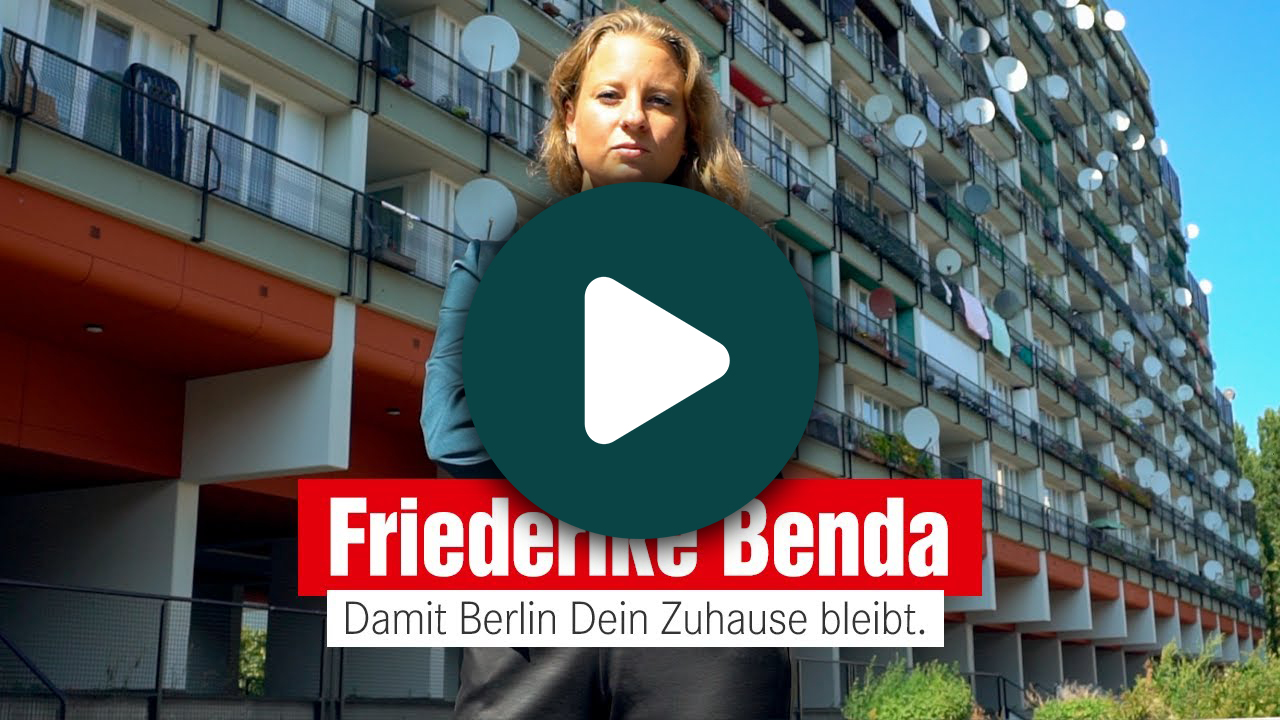
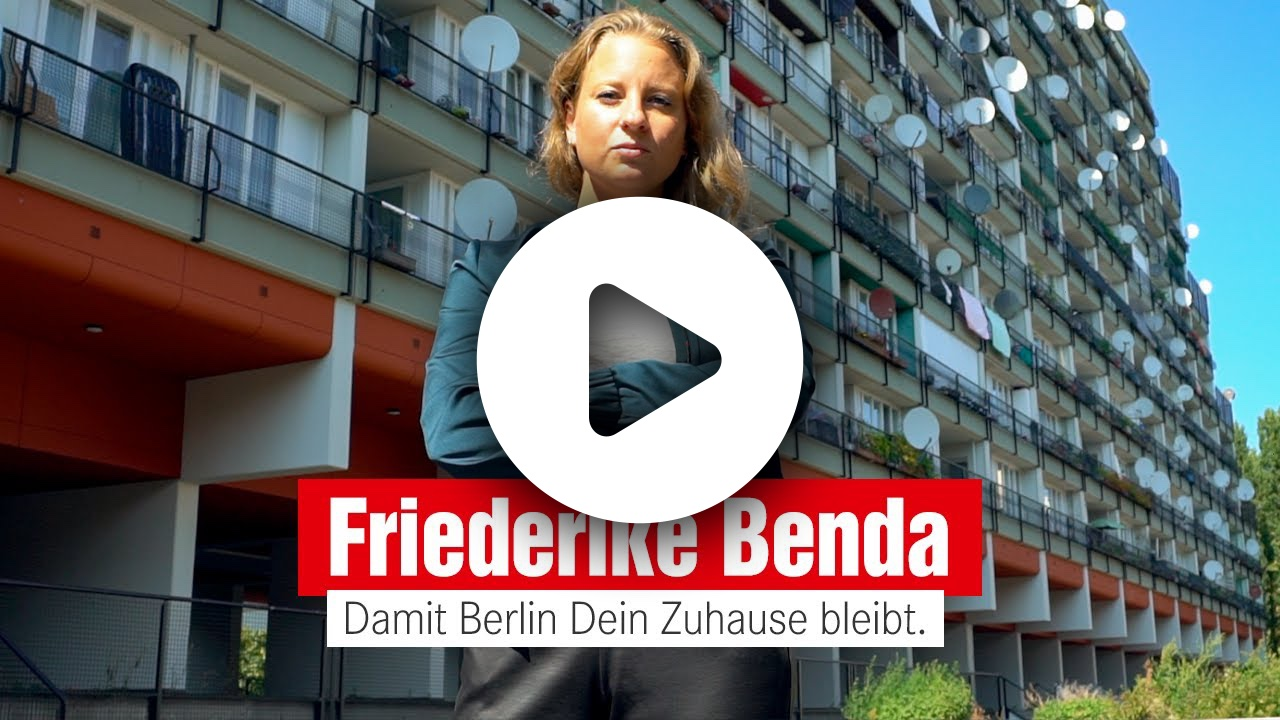
added new handling for privacy-friendly youtube integration and new video in newly created kampagnen section

Changed region(s): [[0.3438, 0.2444, 0.6562, 0.7639], [0.4688, 0.7944, 0.5312, 0.825], [0.4062, 0.7639, 0.4375, 0.7944]]

diff --git a/assets/js/main.min.js b/assets/js/main.min.js
@@ -1,2 +1,2 @@
- //v1.5
- !function($){var b=$(window),a=$("body");breakpoints({default:["1681px",null],xlarge:["1281px","1680px"],large:["981px","1280px"],medium:["737px","980px"],small:["481px","736px"],xsmall:["361px","480px"],xxsmall:[null,"360px"]}),b.on("load",function(){window.setTimeout(function(){a.removeClass("is-preload")},100)}),"ie"==browser.name&&a.addClass("is-ie"),browser.mobile&&a.addClass("is-mobile"),$(".scrolly").scrolly({offset:100}),browser.canUse("object-fit")||($(".image[data-position]").each(function(){var a=$(this),b=a.children("img");a.css("background-image",'url("'+b.attr("src")+'")').css("background-position",a.data("position")).css("background-size","cover").css("background-repeat","no-repeat"),b.css("opacity","0")}),$(".gallery > a").each(function(){var a=$(this),b=a.children("img");a.css("background-image",'url("'+b.attr("src")+'")').css("background-position","center").css("background-size","cover").css("background-repeat","no-repeat"),b.css("opacity","0")})),$(".lightbox").on("click","a",function(b){var c=$(this),a=c.parents(".lightbox").children(".modal"),e=a.find("img"),d=c.attr("href");d.match(/\.(jpg|gif|png|mp4)$/)&&(b.preventDefault(),b.stopPropagation(),a[0]._locked||(a[0]._locked=!0,e.attr("src",d),a.addClass("visible"),a.focus(),setTimeout(function(){a[0]._locked=!1},600)))}).on("click",".modal",function(c){var b=$(this),d=b.find("img");!b[0]._locked&&b.hasClass("visible")&&(c.stopPropagation(),b[0]._locked=!0,b.removeClass("loaded"),setTimeout(function(){b.removeClass("visible"),setTimeout(function(){d.attr("src",""),b[0]._locked=!1,a.focus()},475)},125))}).on("keypress",".modal",function(a){var b=$(this);27==a.keyCode&&b.trigger("click")}).on("mouseup mousedown mousemove",".modal",function(a){a.stopPropagation()}).prepend('<div class="modal" tabIndex="-1"><div class="inner"><img src="" /></div></div>').find("img").on("load",function(a){var b=$(this).parents(".modal");setTimeout(function(){b.hasClass("visible")&&b.addClass("loaded")},275)}),$(".gallery").on("click","a",function(b){var c=$(this),a=c.parents(".gallery").children(".modal"),e=a.find("img"),d=c.attr("href");d.match(/\.(jpg|jpeg|gif|png|mp4)$/)&&(b.preventDefault(),b.stopPropagation(),a[0]._locked||(a[0]._locked=!0,e.attr("src",d),a.addClass("visible"),a.focus(),setTimeout(function(){a[0]._locked=!1},600)))}).on("click",".modal",function(c){var b=$(this),d=b.find("img");!b[0]._locked&&b.hasClass("visible")&&(c.stopPropagation(),b[0]._locked=!0,b.removeClass("loaded"),setTimeout(function(){b.removeClass("visible"),setTimeout(function(){d.attr("src",""),b[0]._locked=!1,a.focus()},475)},125))}).on("keypress",".modal",function(a){var b=$(this);27==a.keyCode&&b.trigger("click")}).on("mouseup mousedown mousemove",".modal",function(a){a.stopPropagation()}).prepend('<div class="modal" tabIndex="-1"><div class="inner"><img src="" /></div></div>').find("img").on("load",function(a){var b=$(this).parents(".modal");setTimeout(function(){b.hasClass("visible")&&b.addClass("loaded")},275)})}(jQuery);const piwikServerUrl="https://piwik.jh0.eu/";var piwikAjaxOptOutIsTracked=!0;function piwikAjaxOptOutTrack(){$.ajax({url:piwikServerUrl+"index.php?module=API&method=AjaxOptOut.doTrack&format=json",jsonp:"callback",dataType:"jsonp",success:function(a){piwikAjaxOptOutIsTracked=!0,updateText()}})}function piwikAjaxOptOutUntrack(){$.ajax({url:piwikServerUrl+"index.php?module=API&method=AjaxOptOut.doIgnore&format=json",jsonp:"callback",dataType:"jsonp",success:function(a){piwikAjaxOptOutIsTracked=!1,updateText()}})}function updateText(){!0===piwikAjaxOptOutIsTracked?($("#matomoTrackingStatus span").hide(),$("#piwikAjaxOptOutUntrack").show(),$("#piwikAjaxOptOutTrack").hide()):($("#matomoTrackingStatus span").show(),$("#piwikAjaxOptOutTrack").show(),$("#piwikAjaxOptOutUntrack").hide())}$(document).ready(function(){$("#piwikAjaxOptOutTrack").click(function(a){a.preventDefault(),a.stopPropagation(),piwikAjaxOptOutTrack()}),$("#piwikAjaxOptOutUntrack").click(function(a){a.preventDefault(),a.stopPropagation(),piwikAjaxOptOutUntrack()}),$.ajax({url:piwikServerUrl+"index.php?module=API&method=AjaxOptOut.isTracked&format=json",jsonp:"callback",dataType:"jsonp",success:function(a){piwikAjaxOptOutIsTracked=a.value,updateText()}})});var playYTStatus=0;function playVideo(a,b){if(a="#"+a,0==playYTStatus)$(a).find("img").addClass("grayedout"),$(a).children(".confirm").show(),playYTStatus=1;else if(1==playYTStatus){var c='<iframe src="https://www.youtube-nocookie.com/embed/'+b+'" title="YouTube video player" allow="accelerometer; autoplay; clipboard-write; encrypted-media; gyroscope; picture-in-picture" allowfullscreen></iframe>';$(a).empty(),$(a).removeClass(),$(a).addClass("video"),$(a).append(c),playYTStatus=2}}function getAnchor(){var a=document.URL.split("#");return a.length>1?a[1]:null}function getGetVar(){var a=document.URL.split("?");return a.length>1?a[1]:null}function scrollToAnchor(a){var b=$("section[id='"+a+"']");$("html,body").animate({scrollTop:b.offset().top},"slow")}("photographie"==getAnchor()||"photographie"==getGetVar())&&($(".photogalerie").slideToggle("slow",function(a){$(".photogalerie").is(":hidden")?$("#photogalerie-toggle").addClass("primary"):$("#photogalerie-toggle").removeClass("primary")}),null!=getGetVar()&&scrollToAnchor("photographie")),("work"==getAnchor()||"work"==getGetVar())&&($("#referenzen").slideToggle("slow",function(a){$("#referenzen").is(":hidden")?$("#referenzen-toggle").addClass("primary"):$("#referenzen-toggle").removeClass("primary")}),null!=getGetVar()&&scrollToAnchor("referenzen"));const h=new Date().getHours();var begruessung="";switch(!0){case h<6:begruessung="N'Abend.";break;case h<23:begruessung="Moin.";break;default:begruessung="N'Abend."}$("#begruessung").html(begruessung)
+ //v1.6
+ !function(e){var a=e(window),t=e("body");breakpoints({default:["1681px",null],xlarge:["1281px","1680px"],large:["981px","1280px"],medium:["737px","980px"],small:["481px","736px"],xsmall:["361px","480px"],xxsmall:[null,"360px"]}),a.on("load",function(){window.setTimeout(function(){t.removeClass("is-preload")},100)}),"ie"==browser.name&&t.addClass("is-ie"),browser.mobile&&t.addClass("is-mobile"),e(".scrolly").scrolly({offset:100}),browser.canUse("object-fit")||(e(".image[data-position]").each(function(){var a=e(this),t=a.children("img");a.css("background-image",'url("'+t.attr("src")+'")').css("background-position",a.data("position")).css("background-size","cover").css("background-repeat","no-repeat"),t.css("opacity","0")}),e(".gallery > a").each(function(){var a=e(this),t=a.children("img");a.css("background-image",'url("'+t.attr("src")+'")').css("background-position","center").css("background-size","cover").css("background-repeat","no-repeat"),t.css("opacity","0")})),e(".lightbox").on("click","a",function(a){var t=e(this),o=t.parents(".lightbox").children(".modal"),i=o.find("img"),n=t.attr("href");n.match(/\.(jpg|gif|png|mp4)$/)&&(a.preventDefault(),a.stopPropagation(),o[0]._locked||(o[0]._locked=!0,i.attr("src",n),o.addClass("visible"),o.focus(),setTimeout(function(){o[0]._locked=!1},600)))}).on("click",".modal",function(a){var o=e(this),i=o.find("img");!o[0]._locked&&o.hasClass("visible")&&(a.stopPropagation(),o[0]._locked=!0,o.removeClass("loaded"),setTimeout(function(){o.removeClass("visible"),setTimeout(function(){i.attr("src",""),o[0]._locked=!1,t.focus()},475)},125))}).on("keypress",".modal",function(a){var t=e(this);27==a.keyCode&&t.trigger("click")}).on("mouseup mousedown mousemove",".modal",function(e){e.stopPropagation()}).prepend('<div class="modal" tabIndex="-1"><div class="inner"><img src="" /></div></div>').find("img").on("load",function(a){var t=e(this).parents(".modal");setTimeout(function(){t.hasClass("visible")&&t.addClass("loaded")},275)}),e(".gallery").on("click","a",function(a){var t=e(this),o=t.parents(".gallery").children(".modal"),i=o.find("img"),n=t.attr("href");n.match(/\.(jpg|jpeg|gif|png|mp4)$/)&&(a.preventDefault(),a.stopPropagation(),o[0]._locked||(o[0]._locked=!0,i.attr("src",n),o.addClass("visible"),o.focus(),setTimeout(function(){o[0]._locked=!1},600)))}).on("click",".modal",function(a){var o=e(this),i=o.find("img");!o[0]._locked&&o.hasClass("visible")&&(a.stopPropagation(),o[0]._locked=!0,o.removeClass("loaded"),setTimeout(function(){o.removeClass("visible"),setTimeout(function(){i.attr("src",""),o[0]._locked=!1,t.focus()},475)},125))}).on("keypress",".modal",function(a){var t=e(this);27==a.keyCode&&t.trigger("click")}).on("mouseup mousedown mousemove",".modal",function(e){e.stopPropagation()}).prepend('<div class="modal" tabIndex="-1"><div class="inner"><img src="" /></div></div>').find("img").on("load",function(a){var t=e(this).parents(".modal");setTimeout(function(){t.hasClass("visible")&&t.addClass("loaded")},275)})}(jQuery);const piwikServerUrl="https://piwik.jh0.eu/";var piwikAjaxOptOutIsTracked=!0;function piwikAjaxOptOutTrack(){$.ajax({url:piwikServerUrl+"index.php?module=API&method=AjaxOptOut.doTrack&format=json",jsonp:"callback",dataType:"jsonp",success:function(e){piwikAjaxOptOutIsTracked=!0,updateText()}})}function piwikAjaxOptOutUntrack(){$.ajax({url:piwikServerUrl+"index.php?module=API&method=AjaxOptOut.doIgnore&format=json",jsonp:"callback",dataType:"jsonp",success:function(e){piwikAjaxOptOutIsTracked=!1,updateText()}})}function updateText(){!0===piwikAjaxOptOutIsTracked?($("#matomoTrackingStatus span").hide(),$("#piwikAjaxOptOutUntrack").show(),$("#piwikAjaxOptOutTrack").hide()):($("#matomoTrackingStatus span").show(),$("#piwikAjaxOptOutTrack").show(),$("#piwikAjaxOptOutUntrack").hide())}$(document).ready(function(){$("#piwikAjaxOptOutTrack").click(function(e){e.preventDefault(),e.stopPropagation(),piwikAjaxOptOutTrack()}),$("#piwikAjaxOptOutUntrack").click(function(e){e.preventDefault(),e.stopPropagation(),piwikAjaxOptOutUntrack()}),$.ajax({url:piwikServerUrl+"index.php?module=API&method=AjaxOptOut.isTracked&format=json",jsonp:"callback",dataType:"jsonp",success:function(e){piwikAjaxOptOutIsTracked=e.value,updateText()}})});var playYTStatus=0;function playVideo(){0==playYTStatus?($(".yt").each(function(e){$(this).find("img").addClass("grayedout"),$(this).children(".confirm").show()}),playYTStatus=1):1==playYTStatus&&($(".yt").each(function(e){var a=$(this).data("vid");$(this).empty(),$(this).removeClass(),$(this).addClass("video"),$(this).append('<iframe src="https://www.youtube-nocookie.com/embed/'+a+'" title="YouTube video player" allow="accelerometer; autoplay; clipboard-write; encrypted-media; gyroscope; picture-in-picture" allowfullscreen></iframe>')}),playYTStatus=2)}function getAnchor(){var e=document.URL.split("#");return e.length>1?e[1]:null}function getGetVar(){var e=document.URL.split("?");return e.length>1?e[1]:null}function scrollToAnchor(e){var a=$("section[id='"+e+"']");$("html,body").animate({scrollTop:a.offset().top},"slow")}("photographie"==getAnchor()||"photographie"==getGetVar())&&($(".photogalerie").slideToggle("slow",function(e){$(".photogalerie").is(":hidden")?$("#photogalerie-toggle").addClass("primary"):$("#photogalerie-toggle").removeClass("primary")}),null!=getGetVar()&&scrollToAnchor("photographie")),("jobs"==getAnchor()||"jobs"==getGetVar())&&($("#referenzen").slideToggle("slow",function(e){$("#referenzen").is(":hidden")?$("#referenzen-toggle").addClass("primary"):$("#referenzen-toggle").removeClass("primary")}),null!=getGetVar()&&scrollToAnchor("referenzen")),("kampagnen"==getAnchor()||"kampagnen"==getGetVar())&&($("#kampagnen").slideToggle("slow",function(e){$("#kampagnen").is(":hidden")?$("#kampagnen-toggle").addClass("primary"):$("#kampagnen-toggle").removeClass("primary")}),null!=getGetVar()&&scrollToAnchor("kampagnen"));const h=new Date().getHours();var begruessung="";switch(!0){case h<6:begruessung="N'Abend.";break;case h<23:begruessung="Moin.";break;default:begruessung="N'Abend."}$("#begruessung").html(begruessung);

diff --git a/index.html b/index.html
@@ -111,7 +111,7 @@
 		<link rel="preload" as="script" href="assets/js/browser.min.js?v=1">
 
 		<link rel="preload" as="script" href="assets/js/breakpoints.min.js?v=1.1" />		
-		<link rel="preload" as="script" href="assets/js/main.min.js?v=1.5" />
+		<link rel="preload" as="script" href="assets/js/main.min.js?v=1.6" />
 
 		<!-- prefetch less important js -->
 		<link rel="prefetch" as="script" href="assets/js/util.min.js?v=1.1" />
@@ -242,40 +242,47 @@
 								<li class="icon solid fa-code">Web-Entwicklung</li>
 								<li class="icon solid fa-hashtag">Online-Kommunikation</li>
 							</ul>
+							<p><strong>Meine erste Website habe ich mit zwölf geschrieben und meinen ersten Twitter-<wbr/>Account habe ich mir 2009 geklickt</strong> – auf einem alten iPhone Classic, das für die Entwicklung des heutigen Internets mindestens genauso maßgeblich war, wie der Apple II für die Verbreitung des Heimcomputers. Damit war ich hautnah dabei, als sich unsere Gesell&shy;schaft an die heute nicht mehr weg&shy;zu&shy;denkenden digitalen Kommunikations&shy;kanäle heran&shy;getastet und ihren heutigen Umgang damit entwickelt hat. Ich war dabei, als die Trans&shy;formation des damals noch (vergleichsweise) viel dezentraleren <i>Web 2.0</i> zum Plattform&shy;kapitalismus begann. Trotzdem oder gerade deshalb habe ich meinen Technik&shy;optimismus nicht über Bord geworden: Ich habe gesehen, ja selbst erlebt, wie das Internet als eman&shy;zi&shy;pa&shy;tives Medium Menschen zusammen&shy;bringen kann; wie sich dort Gesell&shy;schaft zum besseren ver&shy;ändern ließ und lässt. Diesen Ideal&shy;ismus, wie man ihn heute am ehesten beim jährlichen Congress des Chaos Computer Clubs spüren kann, möchte ich mir bewahren. Und ich finde, er hat mich bisher auch immer gut geleitet: <strong>Immer mittendrin, an der Schnitt&shy;stelle zwischen Technologie, Politik und Gesellschaft</strong>.</p>
 							<ul class="actions">
-								<li><button id="referenzen-toggle" class="button primary icon solid fa-bars-sort" onclick="$('#referenzen').slideToggle('slow', function(e){ if ($('#referenzen').is(':hidden')) { $('#referenzen-toggle').addClass('primary'); } else { $('#referenzen-toggle').removeClass('primary'); } });">Was ich bisher gemacht habe</button></li>
+								<li><button id="kampagnen-toggle" class="button primary icon solid fa-flag" onclick="$('#kampagnen').slideToggle('slow', function(e){ if ($('#kampagnen').is(':hidden')) { $('#kampagnen-toggle').addClass('primary'); } else { $('#kampagnen-toggle').removeClass('primary'); } });">Kampagnen</button></li>
+								<li><button id="referenzen-toggle" class="button primary icon solid fa-briefcase" onclick="$('#referenzen').slideToggle('slow', function(e){ if ($('#referenzen').is(':hidden')) { $('#referenzen-toggle').addClass('primary'); } else { $('#referenzen-toggle').removeClass('primary'); } });">Jobs</button></li>
 							</ul>
 						</div>
 					</section>
 
-					<!-- Referenzen -->
-					<section id="referenzen" style="display: none;">
+					<!-- Kampagnen -->
+					<section id="kampagnen" style="display: none;">
 						<header>
-							<h2>Was ich bisher gemacht habe</h2>
+							<h2>Kampagnen</h2>
 						</header>
 						<div class="content">
-							<p><strong>Meine erste Website habe ich mit zwölf geschrieben und meinen ersten Twitter-<wbr/>Account habe ich mir 2009 geklickt</strong> – auf einem alten iPhone Classic, das für die Entwicklung des heutigen Internets mindestens genauso maßgeblich war, wie der Apple II für die Verbreitung des Heimcomputers. Damit war ich hautnah dabei, als sich unsere Gesell&shy;schaft an die heute nicht mehr weg&shy;zu&shy;denkenden digitalen Kommunikations&shy;kanäle heran&shy;getastet und ihren heutigen Umgang damit entwickelt hat. Ich war dabei, als die Trans&shy;formation des damals noch (vergleichsweise) viel dezentraleren <i>Web 2.0</i> zum Plattform&shy;kapitalismus begann. Trotzdem oder gerade deshalb habe ich meinen Technik&shy;optimismus nicht über Bord geworden: Ich habe gesehen, ja selbst erlebt, wie das Internet als eman&shy;zi&shy;pa&shy;tives Medium Menschen zusammen&shy;bringen kann; wie sich dort Gesell&shy;schaft zum besseren ver&shy;ändern ließ und lässt. Diesen Ideal&shy;ismus, wie man ihn heute am ehesten beim jährlichen Congress des Chaos Computer Clubs spüren kann, möchte ich mir bewahren. Und ich finde, er hat mich bisher auch immer gut geleitet: <strong>Immer mittendrin, an der Schnitt&shy;stelle zwischen Technologie, Politik und Gesellschaft</strong>.</p>
 
+							<!-- Wahlspot DIE LINKE. Niedersachsen -->
 							<section class="referenz-item">
 								<header>
-									<h3>Deutscher Bundestag</h3>
+									<h3>Wahlspot DIE LINKE. Niedersachsen</h3>
 									<ul>
-										<li>seit Juli '20</li>
-										<li>Berlin</li>
+										<li>August 2022</li>
+										<li>Niedersachsen und Berlin (Studio)</li>
 									</ul>
 								</header>
 								<div class="content">
-									<p><strong>Mitarbeiter für Öffentlichkeitsarbeit</strong> bei <a href="https://jankorte.de" title="Website von Jan Korte">Jan Korte, MdB</a>; Erster Parlamentarischer Geschäfts&shy;führer der Fraktion DIE LINKE.</p>
+									<div id="werbespot-nds" class="image main textoverlay yt" data-vid="Rgv31P7mK2U" onclick="playVideo();">
+										<picture>
+											<source type="image/jpeg" srcset="images/gallery/thumbs/spot-dielinke-niedersachsen.jpg" />
+											<source type="image/webp" srcset="images/gallery/thumbs/spot-dielinke-niedersachsen.webp" />
+											<img class="" src="images/gallery/thumbs/spot-dielinke-niedersachsen.jpg" alt="Werbespot bei YouTube abspielen." />
+										</picture>
+										<p class="confirm" style="display: none;"><strong>Noch einmal klicken, um das Video zu laden.</strong><br/>Mit diesem Klick erklärst du dich damit einverstanden, dass personenbezogene Daten an <em>YouTube</em>, ein Unternehmen der <em>Google LLC.</em>, USA, gesendet werden. Aufgrund nationaler Gesetze kann dieser Anbieter gezwungen sein, diese Daten auf Anforderung an Sicherheitsbehörden herauszugeben, ohne dass Sie diese Herausgabe in einem unabhängigen gerichtlichen Verfahren prüfen lassen können.</p>
+									</div>
+									<p><strong>Wahlwerbespot für DIE LINKE. Niedersachsen</strong> zur Landtagswahl 2021.</p>
 									<ul>
-										<li>Öffentlichkeitsarbeit</li>
-										<li>Social Media</li>
-										<li>Recherche</li>
 										<li>Videoproduktion</li>
-										<li>Layout</li>
 									</ul>
 								</div>
 							</section>
-
+							
+							<!-- DIE LINKE. queer -->
 							<section class="referenz-item">
 								<header>
 									<h3>DIE LINKE.queer</h3>
@@ -313,6 +320,7 @@
 								</div>
 							</section>
 
+							<!-- Wahlspot Friederike -->
 							<section class="referenz-item">
 								<header>
 									<h3>Wahlspot Friederike Benda</h3>
@@ -322,7 +330,7 @@
 									</ul>
 								</header>
 								<div class="content">
-									<div id="werbespot-friederike" class="image main textoverlay" onclick="playVideo('werbespot-friederike', 'RqsHF09sFbE');">
+									<div id="werbespot-friederike" class="image main textoverlay yt" data-vid="RqsHF09sFbE" onclick="playVideo();">
 										<picture>
 											<source type="image/jpeg" srcset="images/gallery/thumbs/spot-friederike.jpg" />
 											<source type="image/webp" srcset="images/gallery/thumbs/spot-friederike.webp" />
@@ -337,6 +345,7 @@
 								</div>
 							</section>
 
+							<!-- Kampagne #wärmteuch -->
 							<section class="referenz-item">
 								<header>
 									<h3>#wärmteuch</h3>
@@ -364,6 +373,45 @@
 								</div>
 							</section>
 
+							<p></p>
+
+							<ul class="actions" style="float: right;">
+								<li><button class="button small" onclick="$('#kampagnen').slideToggle('slow', function(e){ if ($('#kampagnen').is(':hidden')) { $('#kampagnen-toggle').addClass('primary'); } else { $('#kampagnen-toggle').removeClass('primary'); } });">Sektion wieder einklappen</button></li>
+							</ul>
+
+							<hr/>
+
+						</div>
+					</section>
+
+					<!-- Referenzen -->
+					<section id="referenzen" style="display: none;">
+						<header>
+							<h2>Bisherige Jobs</h2>
+						</header>
+						<div class="content">
+							<!-- Korte -->
+							<section class="referenz-item">
+								<header>
+									<h3>Deutscher Bundestag</h3>
+									<ul>
+										<li>seit Juli '20</li>
+										<li>Berlin</li>
+									</ul>
+								</header>
+								<div class="content">
+									<p><strong>Mitarbeiter für Öffentlichkeitsarbeit</strong> bei <a href="https://jankorte.de" title="Website von Jan Korte">Jan Korte, MdB</a>; Erster Parlamentarischer Geschäfts&shy;führer der Fraktion DIE LINKE.</p>
+									<ul>
+										<li>Öffentlichkeitsarbeit</li>
+										<li>Social Media</li>
+										<li>Recherche</li>
+										<li>Videoproduktion</li>
+										<li>Layout</li>
+									</ul>
+								</div>
+							</section>
+
+							<!-- Anke -->
 							<section class="referenz-item">
 								<header>
 									<h3>Deutscher Bundestag</h3>
@@ -383,6 +431,7 @@
 								</div>
 							</section>
 
+							<!-- Public Impact -->
 							<section class="referenz-item">
 								<header>
 									<h3>Public Impact UG</h3>
@@ -401,6 +450,7 @@
 								</div>
 							</section>
 
+							<!-- Felix Reda -->
 							<section class="referenz-item">
 								<header>
 									<h3>Europäisches Parlament</h3>
@@ -419,6 +469,7 @@
 								</div>
 							</section>
 
+							<!-- Mein Grundeinkommen -->
 							<section class="referenz-item">
 								<header>
 									<h3>Mein Grundeinkommen</h3>
@@ -438,6 +489,7 @@
 								</div>
 							</section>
 
+							<!-- Sanktionsfrei -->
 							<section class="referenz-item">
 								<header>
 									<h3>Sanktionsfrei</h3>
@@ -456,6 +508,7 @@
 								</div>
 							</section>
 
+							<!-- Votesapp -->
 							<section class="referenz-item">
 								<header>
 									<h3>Votesapp</h3>
@@ -473,6 +526,7 @@
 								</div>
 							</section>
 
+							<!-- Tersee -->
 							<section class="referenz-item">
 								<header>
 									<h3>Tersee</h3>
@@ -491,6 +545,7 @@
 								</div>
 							</section>
 
+							<!-- Karin -->
 							<section class="referenz-item">
 								<header>
 									<h3>Deutscher Bundestag</h3>
@@ -508,6 +563,7 @@
 								</div>
 							</section>
 
+							<!-- Sys&IT -->
 							<section class="referenz-item">
 								<header>
 									<h3>Systembetreuung und IT-Support</h3>
@@ -800,7 +856,7 @@
 			<script src="assets/js/breakpoints.min.js?v=1.1" defer></script>
 
 			<script src="assets/js/util.min.js?v=1.1" defer></script>
-			<script src="assets/js/main.min.js?v=1.5" defer></script>
+			<script src="assets/js/main.min.js?v=1.6" defer></script>
 
 			<script src="assets/js/mailform.min.js?v=1.1" defer></script>
 

diff --git a/assets/js/main.js b/assets/js/main.js
@@ -413,23 +413,39 @@ $(document)
 // YouTube-Video laden
 var playYTStatus = 0;
 
-function playVideo(id, vid) {
-	id = '#' + id;
+function playVideo() {
 
 	if (playYTStatus == 0){
-		$(id).find('img').addClass('grayedout');
-		$(id).children('.confirm').show();
-		playYTStatus = 1;
-	} else if (playYTStatus == 1){
-		// build iframe embed code
-		var videoFrame = '<iframe src="https://www.youtube-nocookie.com/embed/' + vid + '" title="YouTube video player" allow="accelerometer; autoplay; clipboard-write; encrypted-media; gyroscope; picture-in-picture" allowfullscreen></iframe>';
 
-		//remove image and inject iframe
-		$(id).empty();
-		$(id).removeClass();
-		$(id).addClass('video');
-		$(id).append(videoFrame);
+		$(".yt").each(function(index){
+			$(this).find('img').addClass('grayedout');
+			$(this).children('.confirm').show();
+		});
+
+		playYTStatus = 1;
+
+	} else if (playYTStatus == 1){
+
+		$(".yt").each(function(index){
+
+			//get video id from data selector in dom
+			var vid = $(this).data("vid");
+
+			// build iframe embed code
+			var videoFrame = '<iframe src="https://www.youtube-nocookie.com/embed/' + vid + '" title="YouTube video player" allow="accelerometer; autoplay; clipboard-write; encrypted-media; gyroscope; picture-in-picture" allowfullscreen></iframe>';
+
+			//remove image
+			$(this).empty();
+			$(this).removeClass();
+			$(this).addClass('video');
+
+			// inject iframe
+			$(this).append(videoFrame);
+
+		});
+
 		playYTStatus = 2;
+
 	}
 }
 
@@ -463,7 +479,7 @@ if (getAnchor() == 'photographie' || getGetVar() == 'photographie') {
 	}
 }
 
-if (getAnchor() == 'work' || getGetVar() == 'work') {
+if (getAnchor() == 'jobs' || getGetVar() == 'jobs') {
 	$('#referenzen').slideToggle('slow', function(e){
 		if ($('#referenzen').is(':hidden')) {
 			$('#referenzen-toggle').addClass('primary');
@@ -474,6 +490,20 @@ if (getAnchor() == 'work' || getGetVar() == 'work') {
 
 	if(getGetVar() != null) {
 		scrollToAnchor('referenzen');
+	}
+}
+
+if (getAnchor() == 'kampagnen' || getGetVar() == 'kampagnen') {
+	$('#kampagnen').slideToggle('slow', function(e){
+		if ($('#kampagnen').is(':hidden')) {
+			$('#kampagnen-toggle').addClass('primary');
+		} else { 
+			$('#kampagnen-toggle').removeClass('primary'); 
+		} 
+	});
+
+	if(getGetVar() != null) {
+		scrollToAnchor('kampagnen');
 	}
 }
 
